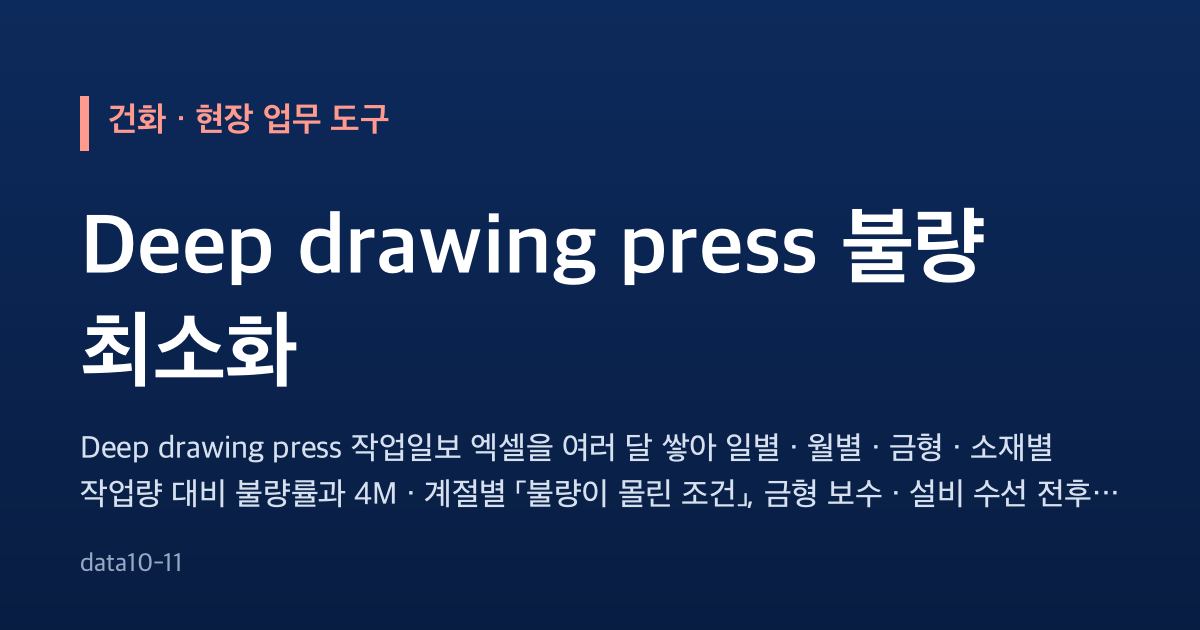
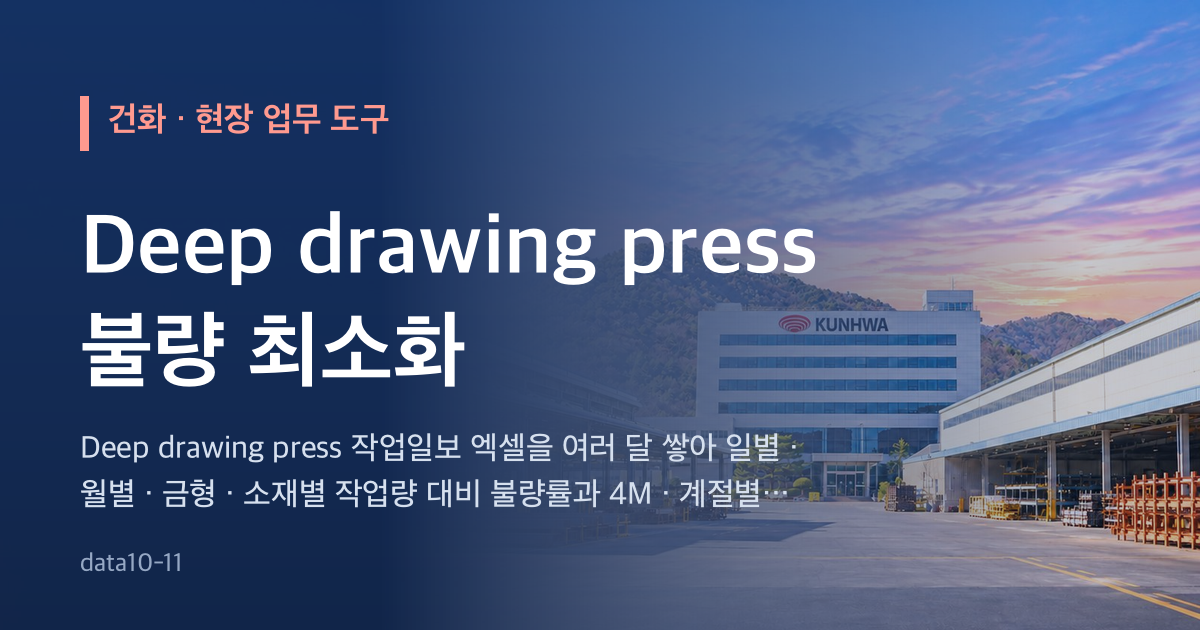
개발 자료 전체 공개 — 개발일지 · 기획서 원문 · 시험 · SQL · 스크립트 · README (수강생 내려받기용)

diff --git a/index.html b/index.html
@@ -12,9 +12,16 @@
   <meta property="og:description" content="Deep drawing press 작업일보 엑셀을 여러 달 쌓아 일별 · 월별 · 금형 · 소재별 작업량 대비 불량률과 4M · 계절별 「불량이 몰린 조건」, 금형 보수 · 설비 수선 전후, 압력 작업표준 대비를 보여 주는 브라우저 도구입니다.">
   <meta property="og:url" content="https://data10-11.jobability.co.kr/">
   <meta property="og:image" content="https://data10-11.jobability.co.kr/og-image.png">
+  <meta property="og:image:secure_url" content="https://data10-11.jobability.co.kr/og-image.png">
+  <meta property="og:image:type" content="image/png">
   <meta property="og:image:width" content="1200">
   <meta property="og:image:height" content="630">
+  <meta property="og:image:alt" content="건화 · Deep drawing press 불량 최소화">
+  <meta property="og:locale" content="ko_KR">
   <meta name="twitter:card" content="summary_large_image">
+  <meta name="twitter:title" content="건화 · Deep drawing press 불량 최소화">
+  <meta name="twitter:description" content="Deep drawing press 작업일보 엑셀을 여러 달 쌓아 일별 · 월별 · 금형 · 소재별 작업량 대비 불량률과 4M · 계절별 「불량이 몰린 조건」, 금형 보수 · 설비 수선 전후, 압력 작업표준 대비를 보여 주는 브라우저 도구입니다.">
+  <meta name="twitter:image" content="https://data10-11.jobability.co.kr/og-image.png">
   <link rel="icon" href="favicon.svg" type="image/svg+xml">
   <!-- /seo-kit -->
   <meta name="description" content="Deep drawing press 작업일보 엑셀을 쌓아 일별·월별·금형·소재별 불량률, 4M·계절별 「불량이 몰린 조건」, 금형 보수·설비 수선 전후 비교, 모델별 압력 작업표준 대비와 압력 저하 전파 목록, AI 프롬프트와 보고서 초안을 만드는 브라우저 도구">
@@ -29,11 +36,11 @@
        v3: location.reload() 대신 질의 붙은 주소로 — reload 가 Fastly 에 남은 옛 판을 다시 받아 멈추던 것(10-21 build-data 강의안).
        탭 전환·포커스로는 옮기지 않는다(입력 유실). ETag 는 Cloudflare 가 지워서 쓸 수 없다. 원본: dreamit-1000/scripts/fresh-guard/guard.html -->
   <script>(function(){try{var L=location,P='_fg',h=window.history,q=L.search;if(/[?&]_fg=/.test(q)&&h&&h.replaceState){q=q.replace(/([?&])_fg=[^&]*&?/,'$1').replace(/[?&]$/,'');h.replaceState(h.state,'',L.pathname+q+L.hash);}var d=Date.parse(document.lastModified),u=L.pathname+L.search,k='__fresh_guard',t=0;if(!d||!window.fetch||!window.sessionStorage)return;var g=function(s,v){return s+(s.indexOf('?')<0?'?':'&')+P+'='+v;};var c=function(){var n=Date.now();if(n-t<15000)return;t=n;fetch(g(u,n),{method:'HEAD',cache:'no-store'}).then(function(r){var lm=r.headers.get('last-modified'),f=lm&&Date.parse(lm);if(!f||f<=d+1000)return;if(sessionStorage.getItem(k)===lm)return;sessionStorage.setItem(k,lm);L.replace(g(L.pathname+L.search,f)+L.hash);})['catch'](function(){});};c();var p=h&&h.pushState;if(p)h.pushState=function(){var x=p.apply(this,arguments);c();return x;};addEventListener('hashchange',c);addEventListener('popstate',c);}catch(e){}})();</script>
-  <link rel="stylesheet" href="css/style.css?v=2026-11-11.7">
+  <link rel="stylesheet" href="css/style.css?v=2026-11-11.8">
   <!-- auth-kit: 로그인 전에는 도구 화면을 감춘다(js/auth.js 가 판정 뒤 푼다) -->
   <script>document.documentElement.classList.add('auth-lock')</script>
-  <link rel="stylesheet" href="css/auth.css?v=2026-11-11.7">
-  <link rel="stylesheet" href="css/board.css?v=2026-11-11.7">
+  <link rel="stylesheet" href="css/auth.css?v=2026-11-11.8">
+  <link rel="stylesheet" href="css/board.css?v=2026-11-11.8">
   <!-- /auth-kit -->
 </head>
 <body>
@@ -66,19 +73,19 @@
   <div id="toast" class="toast" role="status" aria-live="polite" hidden></div>
 
   <!-- 로컬 파일(file://)로 열어도 돌도록 module 이 아닌 일반 스크립트로 불러옵니다 -->
-  <script src="vendor/xlsx.full.min.js?v=2026-11-11.7"></script>
-  <script src="js/logic.js?v=2026-11-11.7"></script>
-  <script src="js/sample-data.js?v=2026-11-11.7"></script>
-  <script src="js/store.js?v=2026-11-11.7"></script>
-  <script src="js/charts.js?v=2026-11-11.7"></script>
-  <script src="js/ai-endpoint.js?v=2026-11-11.7"></script>
-  <script src="js/ai-panel.js?v=2026-11-11.7"></script>
-  <script src="js/app.js?v=2026-11-11.7"></script>
+  <script src="vendor/xlsx.full.min.js?v=2026-11-11.8"></script>
+  <script src="js/logic.js?v=2026-11-11.8"></script>
+  <script src="js/sample-data.js?v=2026-11-11.8"></script>
+  <script src="js/store.js?v=2026-11-11.8"></script>
+  <script src="js/charts.js?v=2026-11-11.8"></script>
+  <script src="js/ai-endpoint.js?v=2026-11-11.8"></script>
+  <script src="js/ai-panel.js?v=2026-11-11.8"></script>
+  <script src="js/app.js?v=2026-11-11.8"></script>
   <!-- auth-kit: 로그인 · 사용 신청 · 승인(정본 data10-00/kit/auth) -->
-  <script src="vendor/supabase.js?v=2026-11-11.7"></script>
-  <script src="js/auth-config.js?v=2026-11-11.7"></script>
-  <script src="js/board.js?v=2026-11-11.7"></script>
-  <script src="js/auth.js?v=2026-11-11.7"></script>
+  <script src="vendor/supabase.js?v=2026-11-11.8"></script>
+  <script src="js/auth-config.js?v=2026-11-11.8"></script>
+  <script src="js/board.js?v=2026-11-11.8"></script>
+  <script src="js/auth.js?v=2026-11-11.8"></script>
   <!-- /auth-kit -->
 </body>
 </html>

diff --git a/js/auth.js b/js/auth.js
@@ -233,6 +233,12 @@
       box.classList.toggle('hp-sl-light', !!(sl[i] && sl[i].tone === 'light'));   // 밝은 사진이면 글자를 어둡게
     }
     go(0);
+    // slides[].anim(움직이는 그림 gif) — 먼저 가벼운 사진을 보이고, 화면이 뜬 뒤 받아서 바꿔 끼운다(데이터 절약 · 모션 최소화면 건너뜀)
+    var conn = navigator.connection || {};
+    if (!reduce && !conn.saveData) sl.forEach(function (x, k) {
+      if (!x.anim || !track.children[k]) return;
+      setTimeout(function () { var im = new Image(); im.onload = function () { if (document.body.contains(track)) track.children[k].style.backgroundImage = 'url("' + absUrl(x.anim) + '")'; }; im.src = absUrl(x.anim); }, 1500);
+    });
     box.querySelectorAll('[data-sl]').forEach(function (b) {
       b.onclick = function () {
         var v = b.getAttribute('data-sl');

diff --git a/js/logic.js b/js/logic.js
@@ -15,7 +15,7 @@
   var SCHEMA_VERSION = 1;
   /* 판(版) — index.html 의 ?v= · app.js 의 APP_VERSION · sample-data.js 와 같아야 합니다(scripts/bump-version.mjs 로 함께 올림).
      브라우저가 옛 파일과 새 파일을 섞어 쓰면(GitHub Pages 캐시 10분) 버튼과 결과가 어긋날 수 있어, app.js 가 시작할 때 맞춰 봅니다. */
-  var VERSION = '2026-11-11.7';
+  var VERSION = '2026-11-11.8';
   /* 열 읽기 판 — 가져온 파일마다 db.files[].parser 에 적습니다. 2 = 3차(두 줄 머리 「소재 ― 메이커·규격」 수정 · 소재 lot).
      이보다 낮거나 없는 파일로 쌓인 작업 행은 메이커·규격이 뒤바뀌어 있을 수 있어 다시 가져오라고 알립니다(기록에는 원본 칸이 없어 다시 읽을 수 없음). */
   var PARSER_VERSION = 3;

diff --git a/js/app.js b/js/app.js
@@ -6,7 +6,7 @@
   var L = window.DDLogic, S = window.DDStore, C = window.DDCharts, AIP = window.AIPanel;
   /* 판 맞추기 — 브라우저가 옛 logic.js 와 새 app.js 를 섞어 쓰면(Pages 캐시) 버튼과 결과가 어긋날 수 있어, 섞였으면 계산하지 않고 새로고침을 안내합니다.
      판은 scripts/bump-version.mjs 로 index.html(?v=) · logic.js · sample-data.js 와 함께 올립니다. */
-  var APP_VERSION = '2026-11-11.7';
+  var APP_VERSION = '2026-11-11.8';
   var mixed = [['js/logic.js', L], ['js/sample-data.js', window.DDSample]].filter(function (x) { return !x[1] || x[1].VERSION !== APP_VERSION; });
   if (mixed.length || !S || !C || !AIP) {
     var m0 = document.getElementById('main');

diff --git a/js/sample-data.js b/js/sample-data.js
@@ -134,5 +134,5 @@
     return { rows: rows, maint: MAINT.slice(), stds: JSON.parse(JSON.stringify(STDS)), repairs: REPAIRS.slice(), files: files };
   }
 
-  return { VERSION: '2026-11-11.7', build: build, MAINT: MAINT, STDS: STDS, REPAIRS: REPAIRS, CUSHION_DROP: CUSHION_DROP, MAIN_DROP: MAIN_DROP, BAD_LOT: BAD_LOT, HEAD_A: HEAD_A, HEAD_B: HEAD_B, START: START, END: END };
+  return { VERSION: '2026-11-11.8', build: build, MAINT: MAINT, STDS: STDS, REPAIRS: REPAIRS, CUSHION_DROP: CUSHION_DROP, MAIN_DROP: MAIN_DROP, BAD_LOT: BAD_LOT, HEAD_A: HEAD_A, HEAD_B: HEAD_B, START: START, END: END };
 });

diff --git a/docs/평가보고서/data10-11_평가보고서_2026-11-11.md b/docs/평가보고서/data10-11_평가보고서_2026-11-11.md
@@ -2,7 +2,7 @@
 
 - 과제: Deep drawing press 불량 최소화
 - 요청자: 이성헌
-- 점검일: 2026-11-11 (라이브 점검 판 2026-11-11.6, 이 보고서와 함께 올리는 판 2026-11-11.7)
+- 점검일: 2026-11-11 (라이브 점검 판 2026-11-11.6, 이 보고서와 함께 올리는 판 2026-11-11.8)
 - 사이트: https://data10-11.jobability.co.kr/
 - 리포지토리: https://github.com/jungaistar/data10-11
 
@@ -34,7 +34,7 @@ Deep drawing press 작업일보 엑셀을 여러 달 쌓아 일별 · 월별 · 
 | 첫 화면 구성 | 충족 | 모양 사진 슬라이드 3장 · 기능 6 · 사용 순서 6 · 실제 화면 있음 |
 | 회사 로고(그림) | 충족 | 머리글 로고 그림 |
 | 기획서 페이지 · 실제 화면 그림 | 충족 | plan.html 200 · screen.png 200 |
-| 공유 미리보기 메타 · 아이콘 | 조치함 | 점검 때 og 메타 · 아이콘이 없어 판 2026-11-11.7 에서 넣음 |
+| 공유 미리보기 메타 · 아이콘 | 조치함 | 점검 때 og 메타 · 아이콘이 없어 넣음 — og:title · description · url · image(1200×630, 첫 화면 사진 바탕) · canonical |
 
 ## 3. 기능과 시험
 
@@ -61,7 +61,7 @@ Deep drawing press 작업일보 엑셀을 여러 달 쌓아 일별 · 월별 · 
 | Supabase 설정 파일 | 충족 | auth.sql · board.sql · site.sql · verify.sql |
 | Supabase 연결 안내 | 충족 | supabase/README.md (11단계 · 기대하는 값 · 자주 나는 문제) |
 | 내 깃허브로 옮기기 안내 | 충족 | docs/내_깃허브로_옮기기.md |
-| 기획서(워드) · 개발일지 · 변경 이력 | 충족 | 변경 이력 10건 · 커밋 16개 |
+| 기획서(워드) · 개발일지 · 변경 이력 | 충족 | 변경 이력 11건 · 커밋 17개 |
 | 공개 리포지토리(ZIP 내려받기) | 충족 | github.com/jungaistar/data10-11 |
 | 게시판 · 새 글 알림 · 첫 화면 고르기 | 충족 | 과정용 프로젝트에 SQL 적용 완료(표 · 정책 수 확인) |
 
@@ -72,13 +72,14 @@ Deep drawing press 작업일보 엑셀을 여러 달 쌓아 일별 · 월별 · 
 | 항목 | 결과 | 근거 |
 |---|---|---|
 | 내 깃허브에 배포 | 충족 | https://heon7335.github.io/data-app/ , https://heon7335.github.io/press/ |
-| 최신 판으로 배포 | 미충족 | 배포된 판 2026-11-11.1 (최종 2026-11-11.7) |
+| 최신 판으로 배포 | 미충족 | 배포된 판 2026-11-11.1 (최종 2026-11-11.8) |
 | 게시판 포함 판 | 미충족 | 게시판이 들어가기 전 판 |
 | 내 Supabase 로 연결 | 미충족 | 아직 과정용 프로젝트 주소 그대로 |
 | 비밀 키 노출 없음 | 충족 | 설정 파일에 service_role · secret 키 없음 |
 
 ## 6. 변경 이력
 
+- 2026-11-11 점검 · 평가보고서 (판 2026-11-11.7)
 - 2026-11-11 요청 반영 (판 2026-11-11.6)
 - 2026-11-11 슬라이드 사진 (판 2026-11-11.5)
 - 2026-11-11 첫 화면 모양 고르기 (판 2026-11-11.3)

diff --git a/CHANGELOG.md b/CHANGELOG.md
@@ -2,6 +2,11 @@
 
 버전마다 기획서 워드 판을 `docs/기획서/` 에 남긴다(옛 판을 지우지 않는다).
 
+## 2026-11-11 최종 (판 2026-11-11.8)
+
+- 공유 미리보기 그림(og-image.png)을 첫 화면 사진 바탕으로, og · twitter 메타 보강
+- 평가보고서 갱신 `docs/평가보고서/`
+
 ## 2026-11-11 점검 · 평가보고서 (판 2026-11-11.7)
 
 - 16개 사이트 점검 결과와 평가보고서 `docs/평가보고서/`(md · docx)
